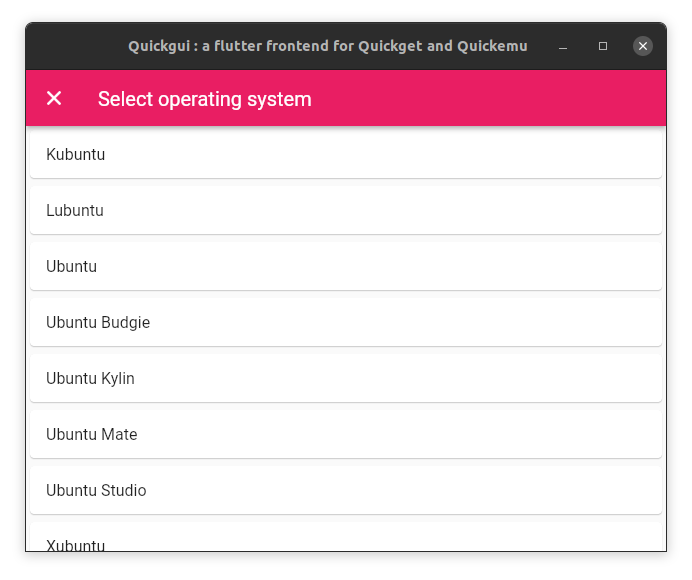
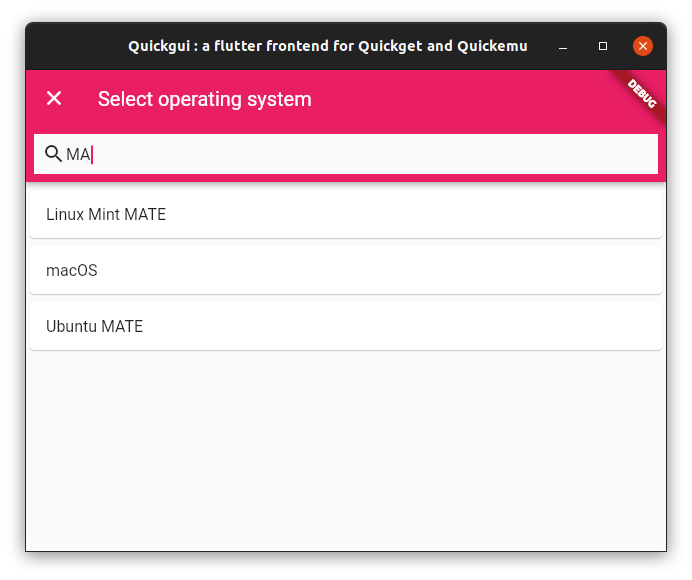
Updated README.md

Changed region(s): [[0.0303, 0.0621, 0.9711, 0.9931], [0.1821, 0.0621, 0.7587, 0.0931]]

diff --git a/README.md b/README.md
@@ -1,37 +1,47 @@
-# Guickgui
+# quickgui
 
-A new Flutter frontend for Quickget.
+A Flutter frontend for [quickget](https://github.com/wimpysworld/quickemu).
 
-## Build
+## Install
 
-
-* [Set up Flutter](https://ubuntu.com/blog/getting-started-with-flutter-on-ubuntu)
-* Clone this repo,
-* Switch to the project's directory,
-* Build the project.
+* [Download](https://github.com/ymauray/quickgui/releases/) the binary.
+* Uncompress the tarball wherever you want.
+* From anywhere on the filesystem, run the app.
 
 ```bash
-$ git clone https://github.com/ymauray/quickgui.git
-$ cd quickgui
-$ flutter build linux --release
-```
-
-## Run
-
-* From the project's folder, start the binary with : 
-```
-$ ./build/linux/x64/release/bundle/quickgui
+xz quickgui-a.b.c-d.tar.xz
+tar xvf quickgui-a.b.c-d.tar
+/path/to/quickgui
 ```
 
 Alternativelly, use `update-alternatives` to install `quickgui` system-wide :
 
 ```bash
-sudo update-alternatives --install /usr/local/bin/quickgui quickgui /opt/flutter-projects/quickgui/build/linux/x64/release/bundle/quickgui 50
+sudo update-alternatives --install /usr/local/bin/quickgui quickgui /path/to/quickgui 50
 ```
+
+## Build
+
+If you don't want to run the binary, you can rebuild the application yourself :
+
+* [Set up Flutter](https://ubuntu.com/blog/getting-started-with-flutter-on-ubuntu)
+* Clone this repo,
+* Switch to the project's directory,
+* Build the project,
+* Run the app.
+
+```bash
+git clone https://github.com/ymauray/quickgui.git
+cd quickgui
+flutter build linux --release
+./build/linux/x64/release/bundle/quickgui
+```
+
+You can also use `update-alternatives` for easier access to the app.
 
 ## Usage
 
-From the main screen, select the operating system you want to use :
+From the main screen, select the operating system you want to use. The list can be filtered.
 
 
 ![Main screen](./assets/github/screenshot1.png)
@@ -45,6 +55,12 @@ Then, select the version :
 ![Main screen after selection of the operating system](./assets/github/screenshot4.png)
 
 ![Versions of the selected operating system](./assets/github/screenshot5.png)
+
+If there are some options (Windows language, Pop!_OS nvidia or Intel, etc..), they will be displayed :
+
+![Choose an option](./assets/github/screenshot8.png)
+
+![Option is diplayed](./assets/github/screenshot9.png)
 
 Then click "Download". The ISO will be downloaded in the current working directory, in 99% of cases that will be the directory where `quickgui` was invoked from. The spinner will tell you where the file is being downloaded.
 
